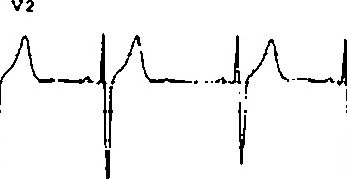
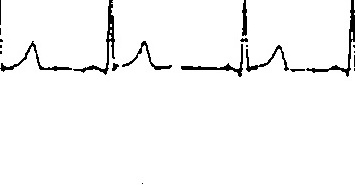
Horizontal projection finished

diff --git a/ECG Digitization/ECG Code/HorizontalSegmentation.py b/ECG Digitization/ECG Code/HorizontalSegmentation.py
@@ -42,14 +42,14 @@ for item in vertical_files:
         # print(proj[i][0], i)
         if proj[i][0] <= 2000:
             count += 1
-        elif count-start >= 40 and proj[i][0] > 2000:
-            if ((count-start)/2)+start - startCrop > 40:
+        elif count-start >= 30 and proj[i][0] > 2000:
+            if ((count-start)/2)+start - startCrop > 30:
                 if int((count-start)/2)+start <= height:
                     if( (((count-start)/2)+start) - startCrop >= 50):
                         crop_img = img[startCrop:int((count-start)/2)+start, 0:width]
                         print(((count-start)/2)+start, startCrop, item[:len(item)-4])
                         cv2.imwrite(path + '/'+ item[:len(item)-4] +'_'+str(index)+'.jpg', crop_img)
-            index += 1
+                        index += 1
             count = i
             start = i
             startCrop = i

diff --git a/ECG Digitization/ECG Code/VerticalSegmentation.py b/ECG Digitization/ECG Code/VerticalSegmentation.py
@@ -63,7 +63,7 @@ for i in range(a):
 pointset.sort()
 oldX = 0
 for points in pointset:
-    crop_img = threshimg[0:points[1], oldX+5:points[0]-5]
+    crop_img = threshimg[0:points[1], oldX+1:points[0]-1]
     oldX = points[0]
     cv2.imwrite(path + '/'+ path + str(count)+'_'+str(index)+'.jpg', crop_img)
     index += 1
